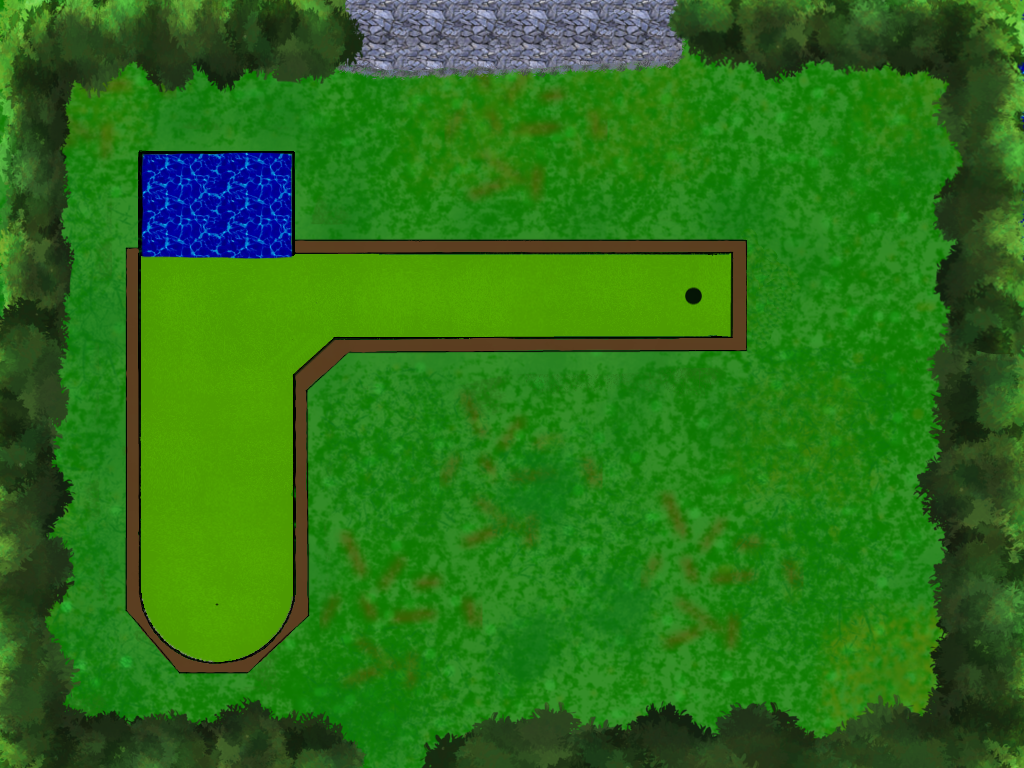
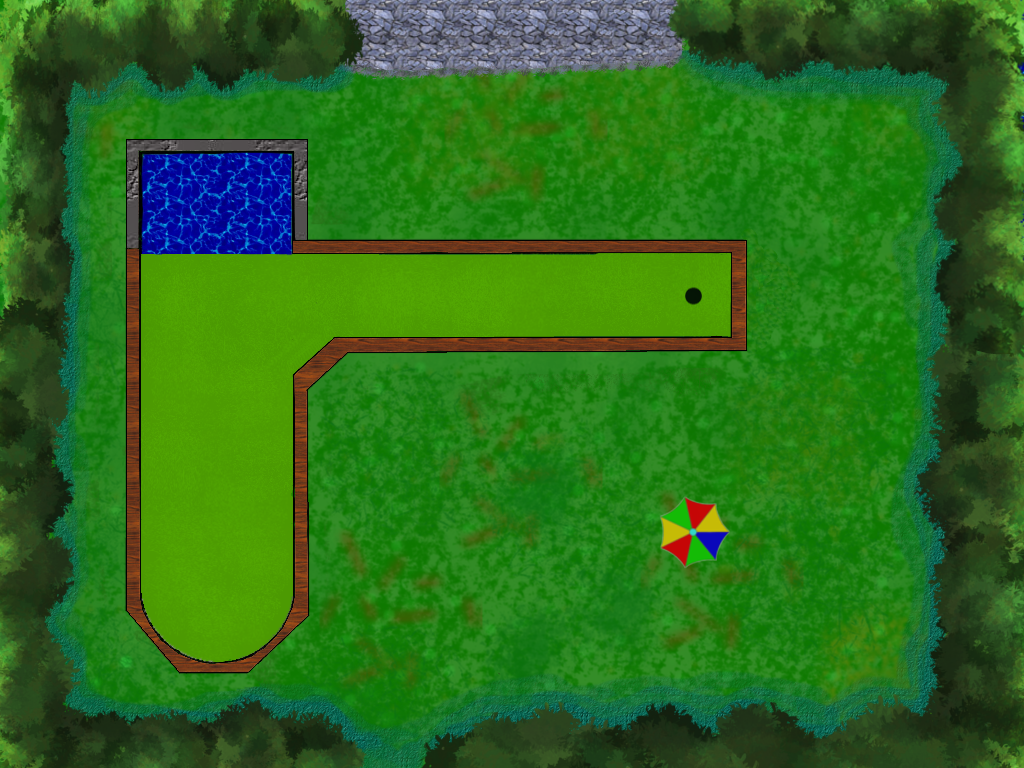
Levelbild verbessert

diff --git a/MinigolfSimulator3000/level_1.cpp b/MinigolfSimulator3000/level_1.cpp
@@ -22,10 +22,12 @@ void Level_1::constructLevel()
 
     // Dateipfad als String
     QString bgroundimage = ":/Images/Images/Level_Test.png";
-     waterimage = ":/Images/Images/wasser.png";
-     waterimage2 = ":/Images/Images/wasser2.png";
+     waterimage = ":/Images/Images/wasser1.png";
      vogelimage = ":/Images/Images/v.png";
      vogelimage2 = ":/Images/Images/v2.png";
+     vogelcounter = 0;
+     wassercounter = 0;
+     vogelaction = false;
 
     // Hintergrundbild
     scene->setBackgroundBrush(QImage(bgroundimage));
@@ -35,36 +37,100 @@ void Level_1::constructLevel()
     redpen.setColor(Qt::red);
 
     // Begrenzungen hinzufügen
-    BorderLine* line1 = new BorderLine(139.0,255.0,139.0,600.0,BorderLine::metal_material);
+    BorderLine* line1 = new BorderLine(139.0,250.0,139.0,600.0,BorderLine::metal_material);
     scene->addItem(line1);
 
-    BorderLine* line2 = new BorderLine(139.0,600.0,213.0,662.0,BorderLine::metal_material);
+    BorderLine* line2 = new BorderLine(139.0,600.0,150.0,623.0,BorderLine::metal_material);
     scene->addItem(line2);
 
-    BorderLine* line3 = new BorderLine(213.0,662.0,295.0,596.0,BorderLine::metal_material);
-    scene->addItem(line3);
+//  BorderLine* line3 = new BorderLine(213.0,662.0,295.0,596.0,BorderLine::metal_material);
+//  scene->addItem(line3);
 
     BorderLine* line4 = new BorderLine(295.0,596.0,295.0,375.0,BorderLine::metal_material);
     scene->addItem(line4);
 
-
     BorderLine* line5 = new BorderLine(295.0,375.0,333.0,338.0,BorderLine::metal_material);
     scene->addItem(line5);
-
 
     BorderLine* line6 = new BorderLine(333.0,338.0,731.0,338.0,BorderLine::metal_material);
     scene->addItem(line6);
 
-
     BorderLine* line7 = new BorderLine(731.0,338.0,731.0,253.0,BorderLine::metal_material);
     scene->addItem(line7);
 
+ // BorderLine* line8 = new BorderLine(731.0,253.0,294.0,253.0,BorderLine::metal_material);
+ // scene->addItem(line8);
 
-    BorderLine* line8 = new BorderLine(731.0,253.0,294.0,253.0,BorderLine::metal_material);
-    scene->addItem(line8);
-
-    BorderLine* line9 = new BorderLine(731.0,253.0,139.0,255.0,BorderLine::metal_material);
+    BorderLine* line9 = new BorderLine(731.0,253.0,139.0,250.0,BorderLine::metal_material);
     scene->addItem(line9);
+
+    BorderLine* line10 = new BorderLine(150.0,623.0,160,636,BorderLine::metal_material);
+    scene->addItem(line10);
+
+    BorderLine* line11 = new BorderLine(160,636,170,646,BorderLine::metal_material);
+    scene->addItem(line11);
+
+    BorderLine* line12 = new BorderLine(170,646,179,653,BorderLine::metal_material);
+    scene->addItem(line12);
+
+    BorderLine* line13 = new BorderLine(179,653,189,657,BorderLine::metal_material);
+    scene->addItem(line13);
+
+    BorderLine* line14 = new BorderLine(189,657,201,661,BorderLine::metal_material);
+    scene->addItem(line14);
+
+    BorderLine* line15 = new BorderLine(201,661,220,662,BorderLine::metal_material);
+    scene->addItem(line15);
+
+    BorderLine* line16 = new BorderLine(220,662,238,659,BorderLine::metal_material);
+    scene->addItem(line16);
+
+    BorderLine* line17 = new BorderLine(238,659,253,653,BorderLine::metal_material);
+    scene->addItem(line17);
+
+    BorderLine* line18 = new BorderLine(253,653,265,646,BorderLine::metal_material);
+
+    scene->addItem(line18);
+
+    BorderLine* line19 = new BorderLine(265,646,274,638,BorderLine::metal_material);
+    scene->addItem(line19);
+
+    BorderLine* line20 = new BorderLine(274,638,282,628,BorderLine::metal_material);
+    scene->addItem(line20);
+
+    BorderLine* line21 = new BorderLine(282,628,291,609,BorderLine::metal_material);
+    scene->addItem(line21);
+
+    BorderLine* line22 = new BorderLine(291,609,293,598,BorderLine::metal_material);
+    scene->addItem(line22);
+
+    BorderLine* line23 = new BorderLine(293,598,295,375,BorderLine::metal_material);
+    scene->addItem(line23);
+
+
+    line1->setVisible(false);
+    line2->setVisible(false);
+    line4->setVisible(false);
+    line5->setVisible(false);
+    line6->setVisible(false);
+    line7->setVisible(false);
+ // line8->setVisible(false);
+    line9->setVisible(false);
+    line10->setVisible(false);
+    line11->setVisible(false);
+    line12->setVisible(false);
+    line13->setVisible(false);
+    line14->setVisible(false);
+    line15->setVisible(false);
+    line16->setVisible(false);
+    line17->setVisible(false);
+    line18->setVisible(false);
+    line19->setVisible(false);
+    line20->setVisible(false);
+    line21->setVisible(false);
+    line22->setVisible(false);
+    line23->setVisible(false);
+
 
 
     QPolygon water_polygon;
@@ -73,6 +139,9 @@ void Level_1::constructLevel()
     water->setBrush(QImage(waterimage));
     scene->addItem(water);
     water->setVisible(true);
+    water->setPen(Qt::NoPen);
+
+
 
 
 
@@ -82,7 +151,7 @@ void Level_1::constructLevel()
     vogel2->setPos(50,100);
     scene->addItem(vogel2);
 
-    vogelcounter = 0;
+
 
 
 }
@@ -90,52 +159,75 @@ void Level_1::constructLevel()
 //------------------------------------
 void Level_1::updateLevel()
 {
+
 float rand = qrand();
+int x,y;
 
 rand /= RAND_MAX;
-
-if (changeimage)
-{
-water->setBrush(QImage(waterimage2));
-changeimage = false;
-}
-else
-{
-water->setBrush(QImage(waterimage));
-changeimage = true;
-}
-qDebug() << "test";
-int x,y;
-if (rand < 0.001)
-{
-vogelaction = true;
-}
 x = vogel2->x();
 y = vogel2->y();
+
+if (wassercounter < 6)
+    {
+    water->setBrush(QImage(":/Images/Images/wasser1.png"));
+
+    }
+if (wassercounter > 6 && wassercounter <= 12)
+    {
+    water->setBrush(QImage(":/Images/Images/wasser2.png"));
+
+    }
+if (wassercounter > 12 && wassercounter <= 16)
+    {
+    water->setBrush(QImage(":/Images/Images/wasser3.png"));
+
+    }
+if (wassercounter > 16 && wassercounter <= 20)
+    {
+    water->setBrush(QImage(":/Images/Images/wasser4.png"));
+
+    }
+
+if (rand < 0.001)
+    {
+    vogelaction = true;
+    }
+
+
 if(x < 1024  && vogelaction == true)
-{
-vogel2->setVisible(true);
-vogel2->setPos(x+10,y);
-}
+    {
+    vogel2->setVisible(true);
+    vogel2->setPos(x+10,y);
+    }
+
 else
-{vogel2->setPos(0,100);
- vogel2->setVisible(false);
- vogelaction = false;
-}
+    {
+    vogel2->setPos(0,1000*rand);
+    vogel2->setVisible(false);
+    vogelaction = false;
+    }
 
 if(vogelcounter < 8)
-{
-vogelcounter++;
-vogel2->setPixmap(vogelimage);
-}
+    {
+    vogel2->setPixmap(vogelimage);
+    }
 
 if(vogelcounter >= 8)
-{
+    {
+    vogel2->setPixmap(vogelimage2);
+    }
+
 vogelcounter++;
-vogel2->setPixmap(vogelimage2);
-}
+wassercounter++;
+
 if(vogelcounter >10)
-{
-vogelcounter = 0;
-}
+    {
+    vogelcounter = 0;
+    }
+
+if(wassercounter  >20)
+    {
+    wassercounter = 0;
+    }
+
 }

diff --git a/MinigolfSimulator3000/level_1.h b/MinigolfSimulator3000/level_1.h
@@ -40,6 +40,7 @@ private:
     bool changeimage;
     bool vogelaction;
     int vogelcounter;
+    int wassercounter;
 
 
 
